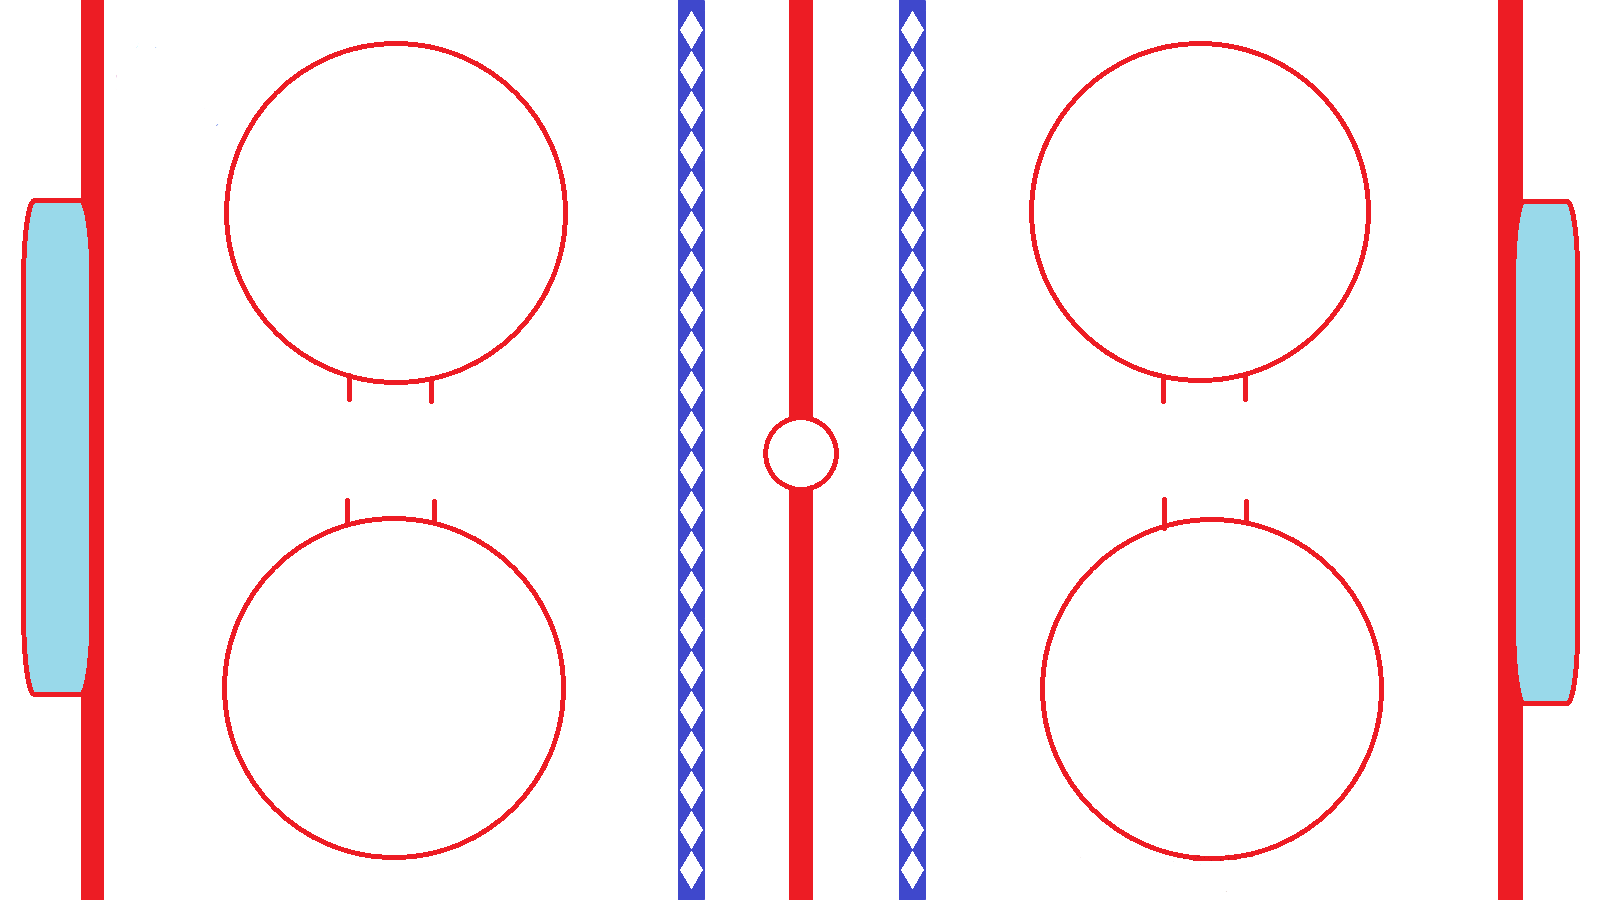
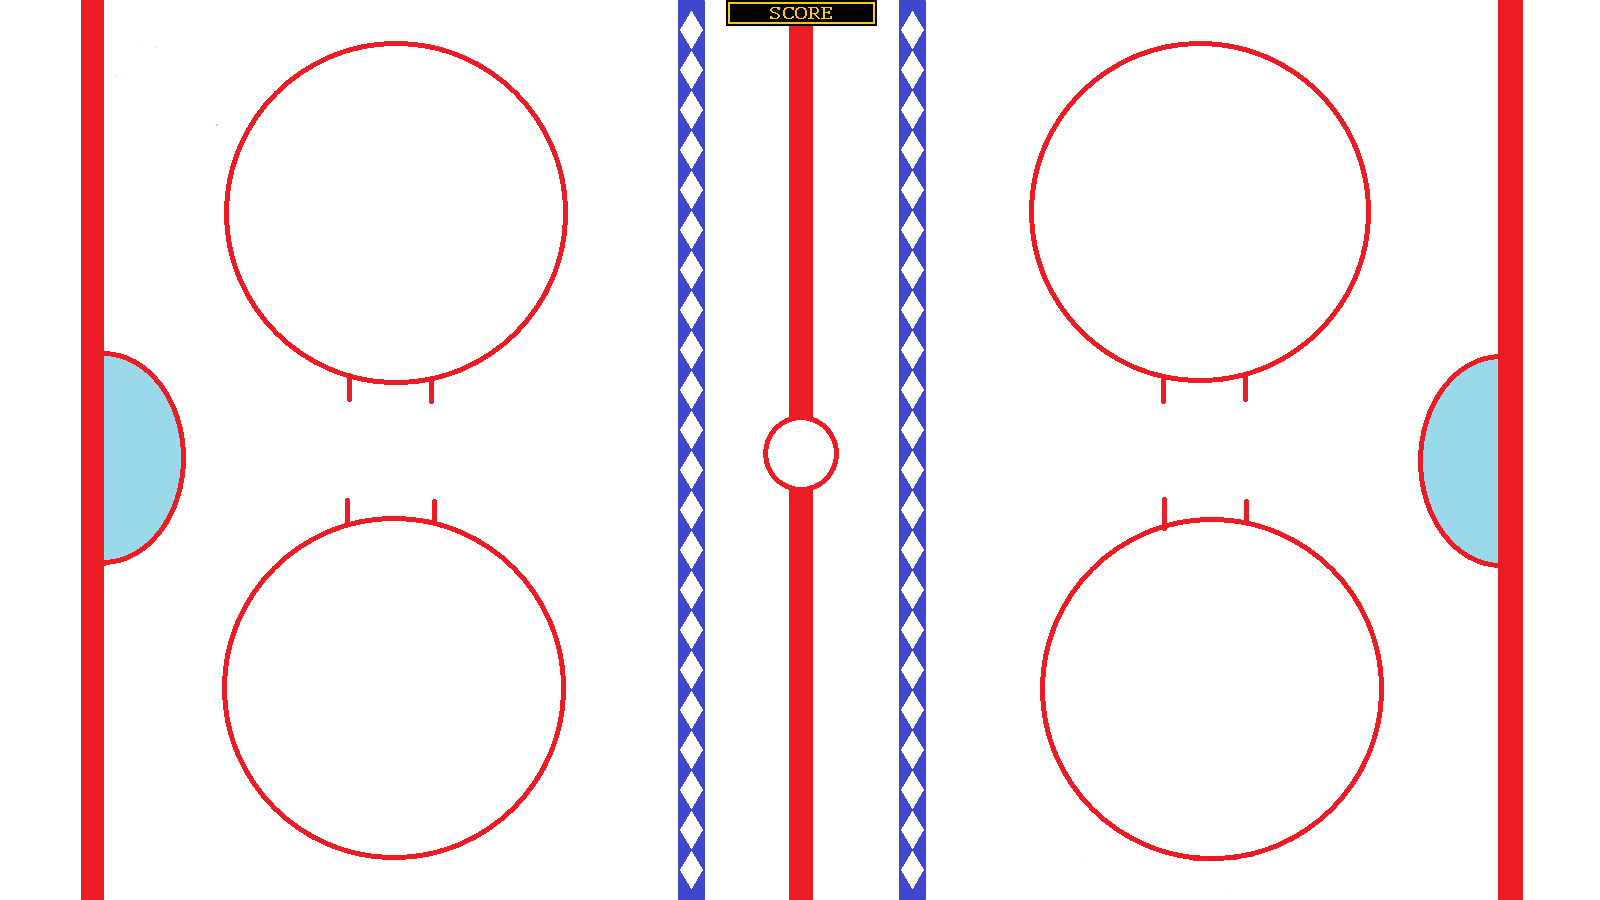
Proj2 finished

Changed region(s): [[0.875, 0.2178, 1.0, 0.8089], [0.0, 0.2178, 0.125, 0.7778], [0.4375, 0.0, 0.5625, 0.0311]]

diff --git a/MonoGameWindowsStarter/Collisions.cs b/MonoGameWindowsStarter/Collisions.cs
@@ -14,9 +14,9 @@ namespace MonoGameWindowsStarter
     {
         public bool Collides(BoundingRectangle a, BoundingRectangle b)
         {
-            return !(a.X + a.Width <= b.X       // a is to the left of b
-                || a.X + a.Width >= b.X + b.Width         // a is to the right of b
-                || a.Y + a.Height <= b.Y        // a is above b
+            return !(a.X + a.Width <= b.X                     // a is to the left of b
+                || a.X + a.Width >= b.X + b.Width            // a is to the right of b
+                || a.Y + a.Height <= b.Y                    // a is above b
                 || a.Y + a.Height >= b.X + b.Height);      // a is below b
         }
 

diff --git a/MonoGameWindowsStarter/Game1.cs b/MonoGameWindowsStarter/Game1.cs
@@ -66,8 +66,8 @@ namespace MonoGameWindowsStarter
 
             puck = new Puck(this);
 
-            blueScoreboard = new Scoreboard(825, 825, this, puck, 1);
-            redScoreboard = new Scoreboard(725, 825, this, puck, 2);
+            blueScoreboard = new Scoreboard(825, 26, this, puck, 1);
+            redScoreboard = new Scoreboard(725, 26, this, puck, 2);
 
             base.Initialize();
         }
